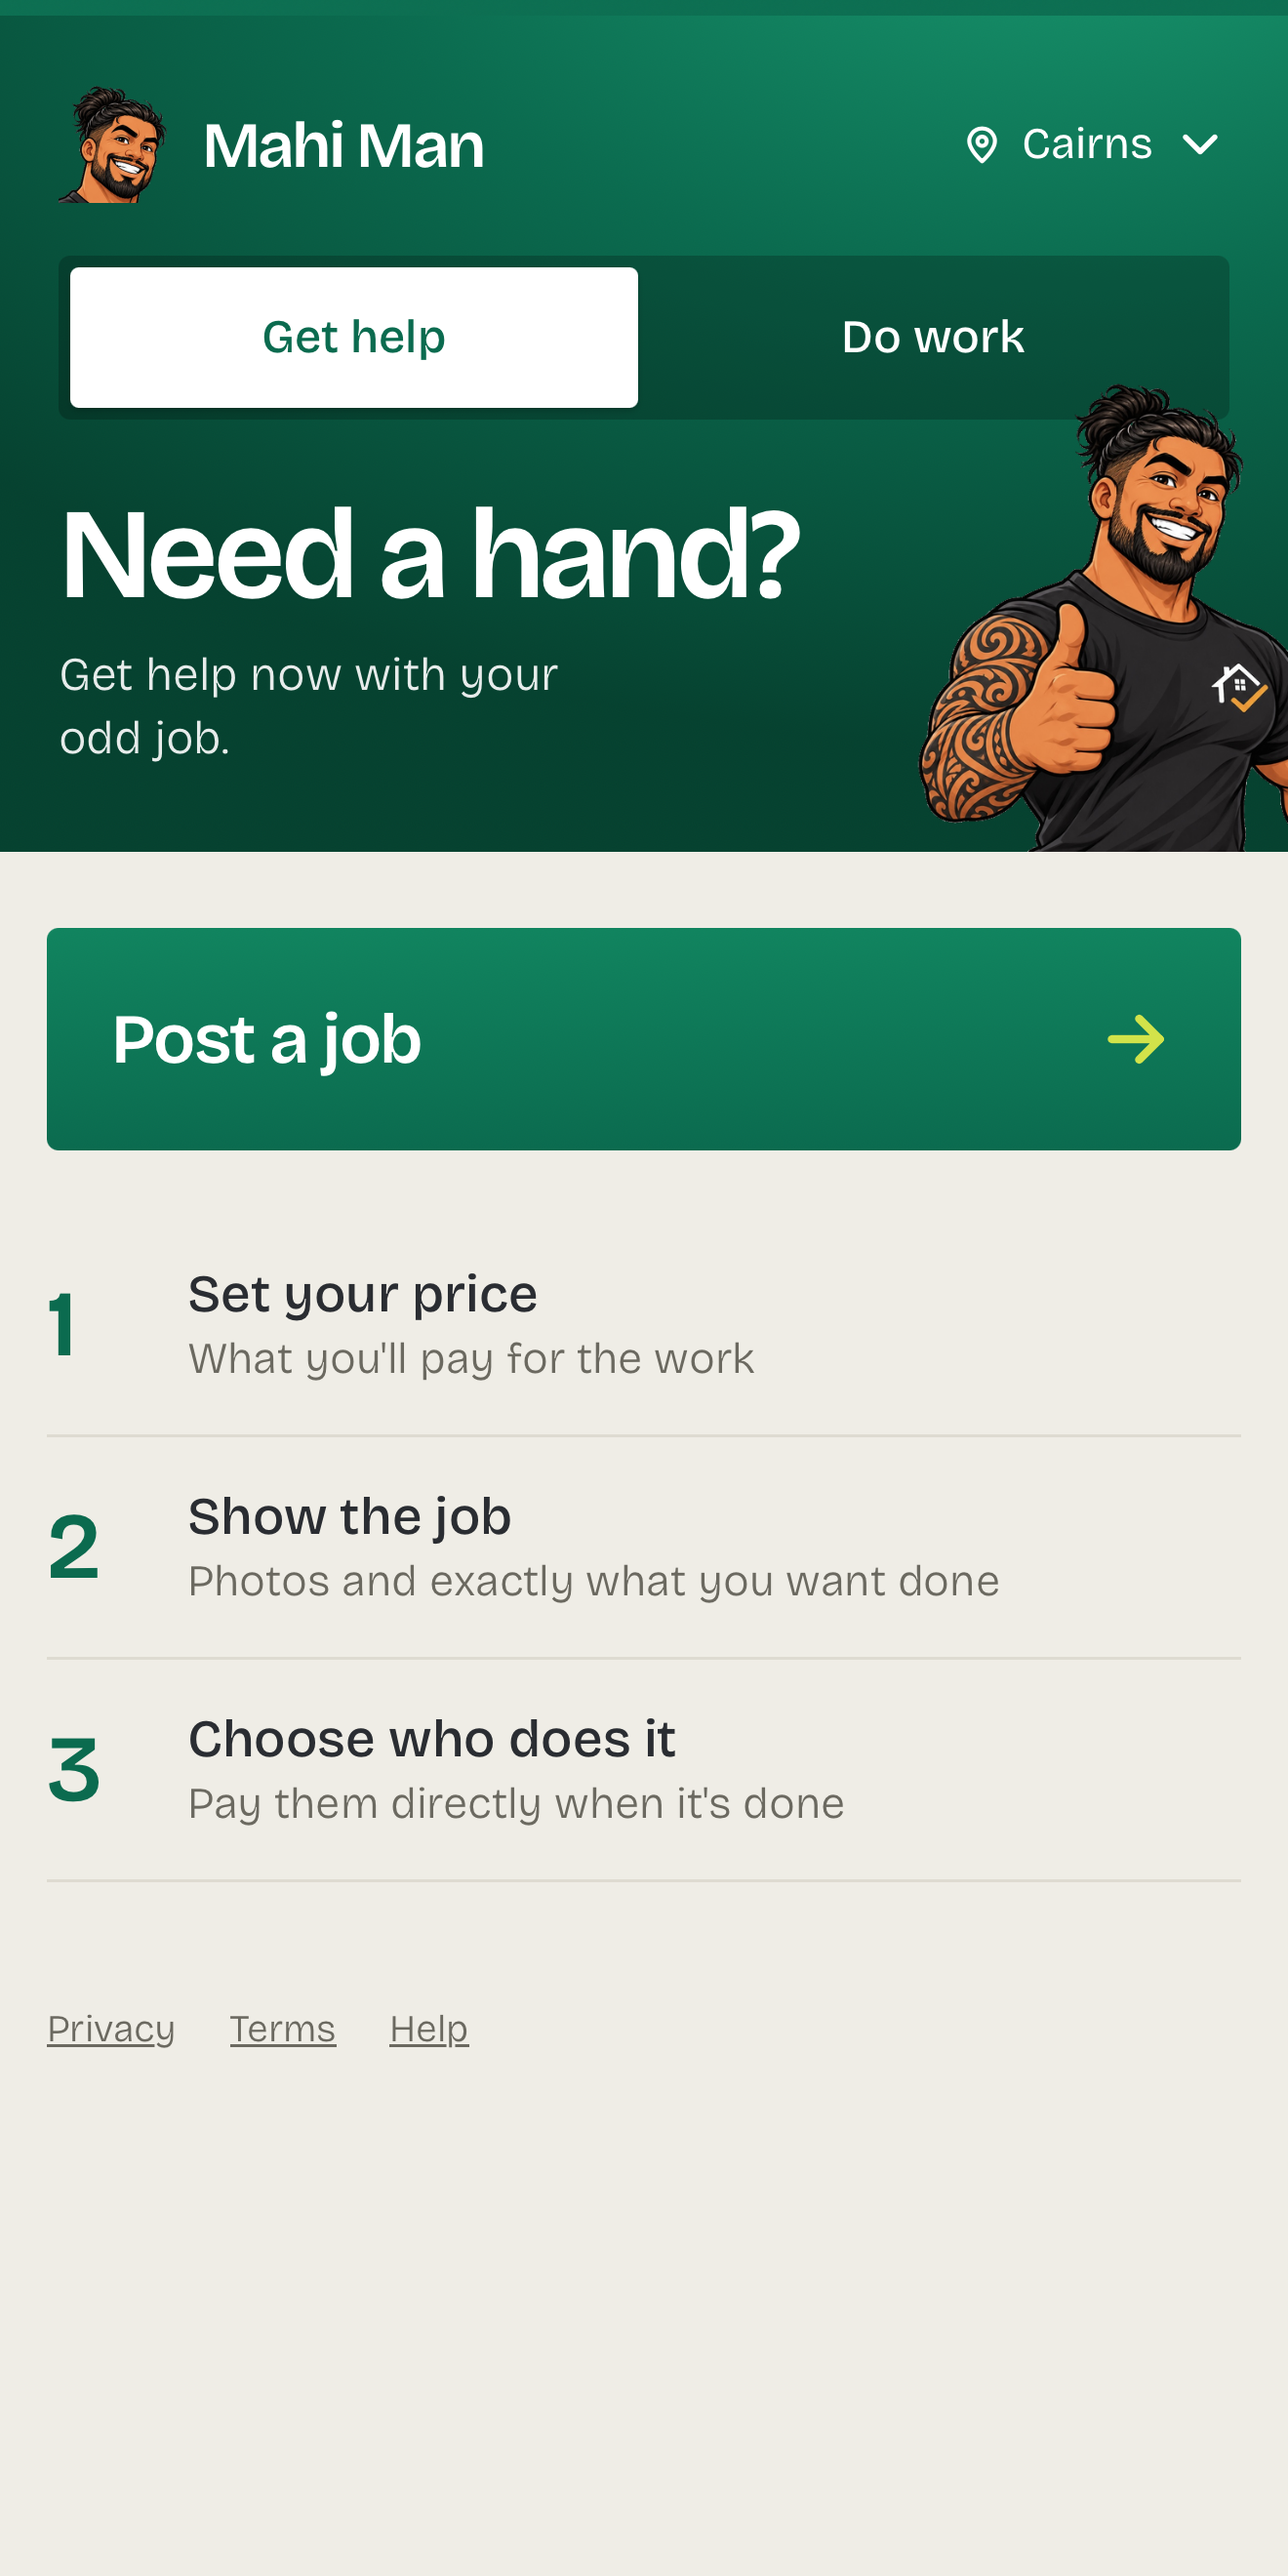
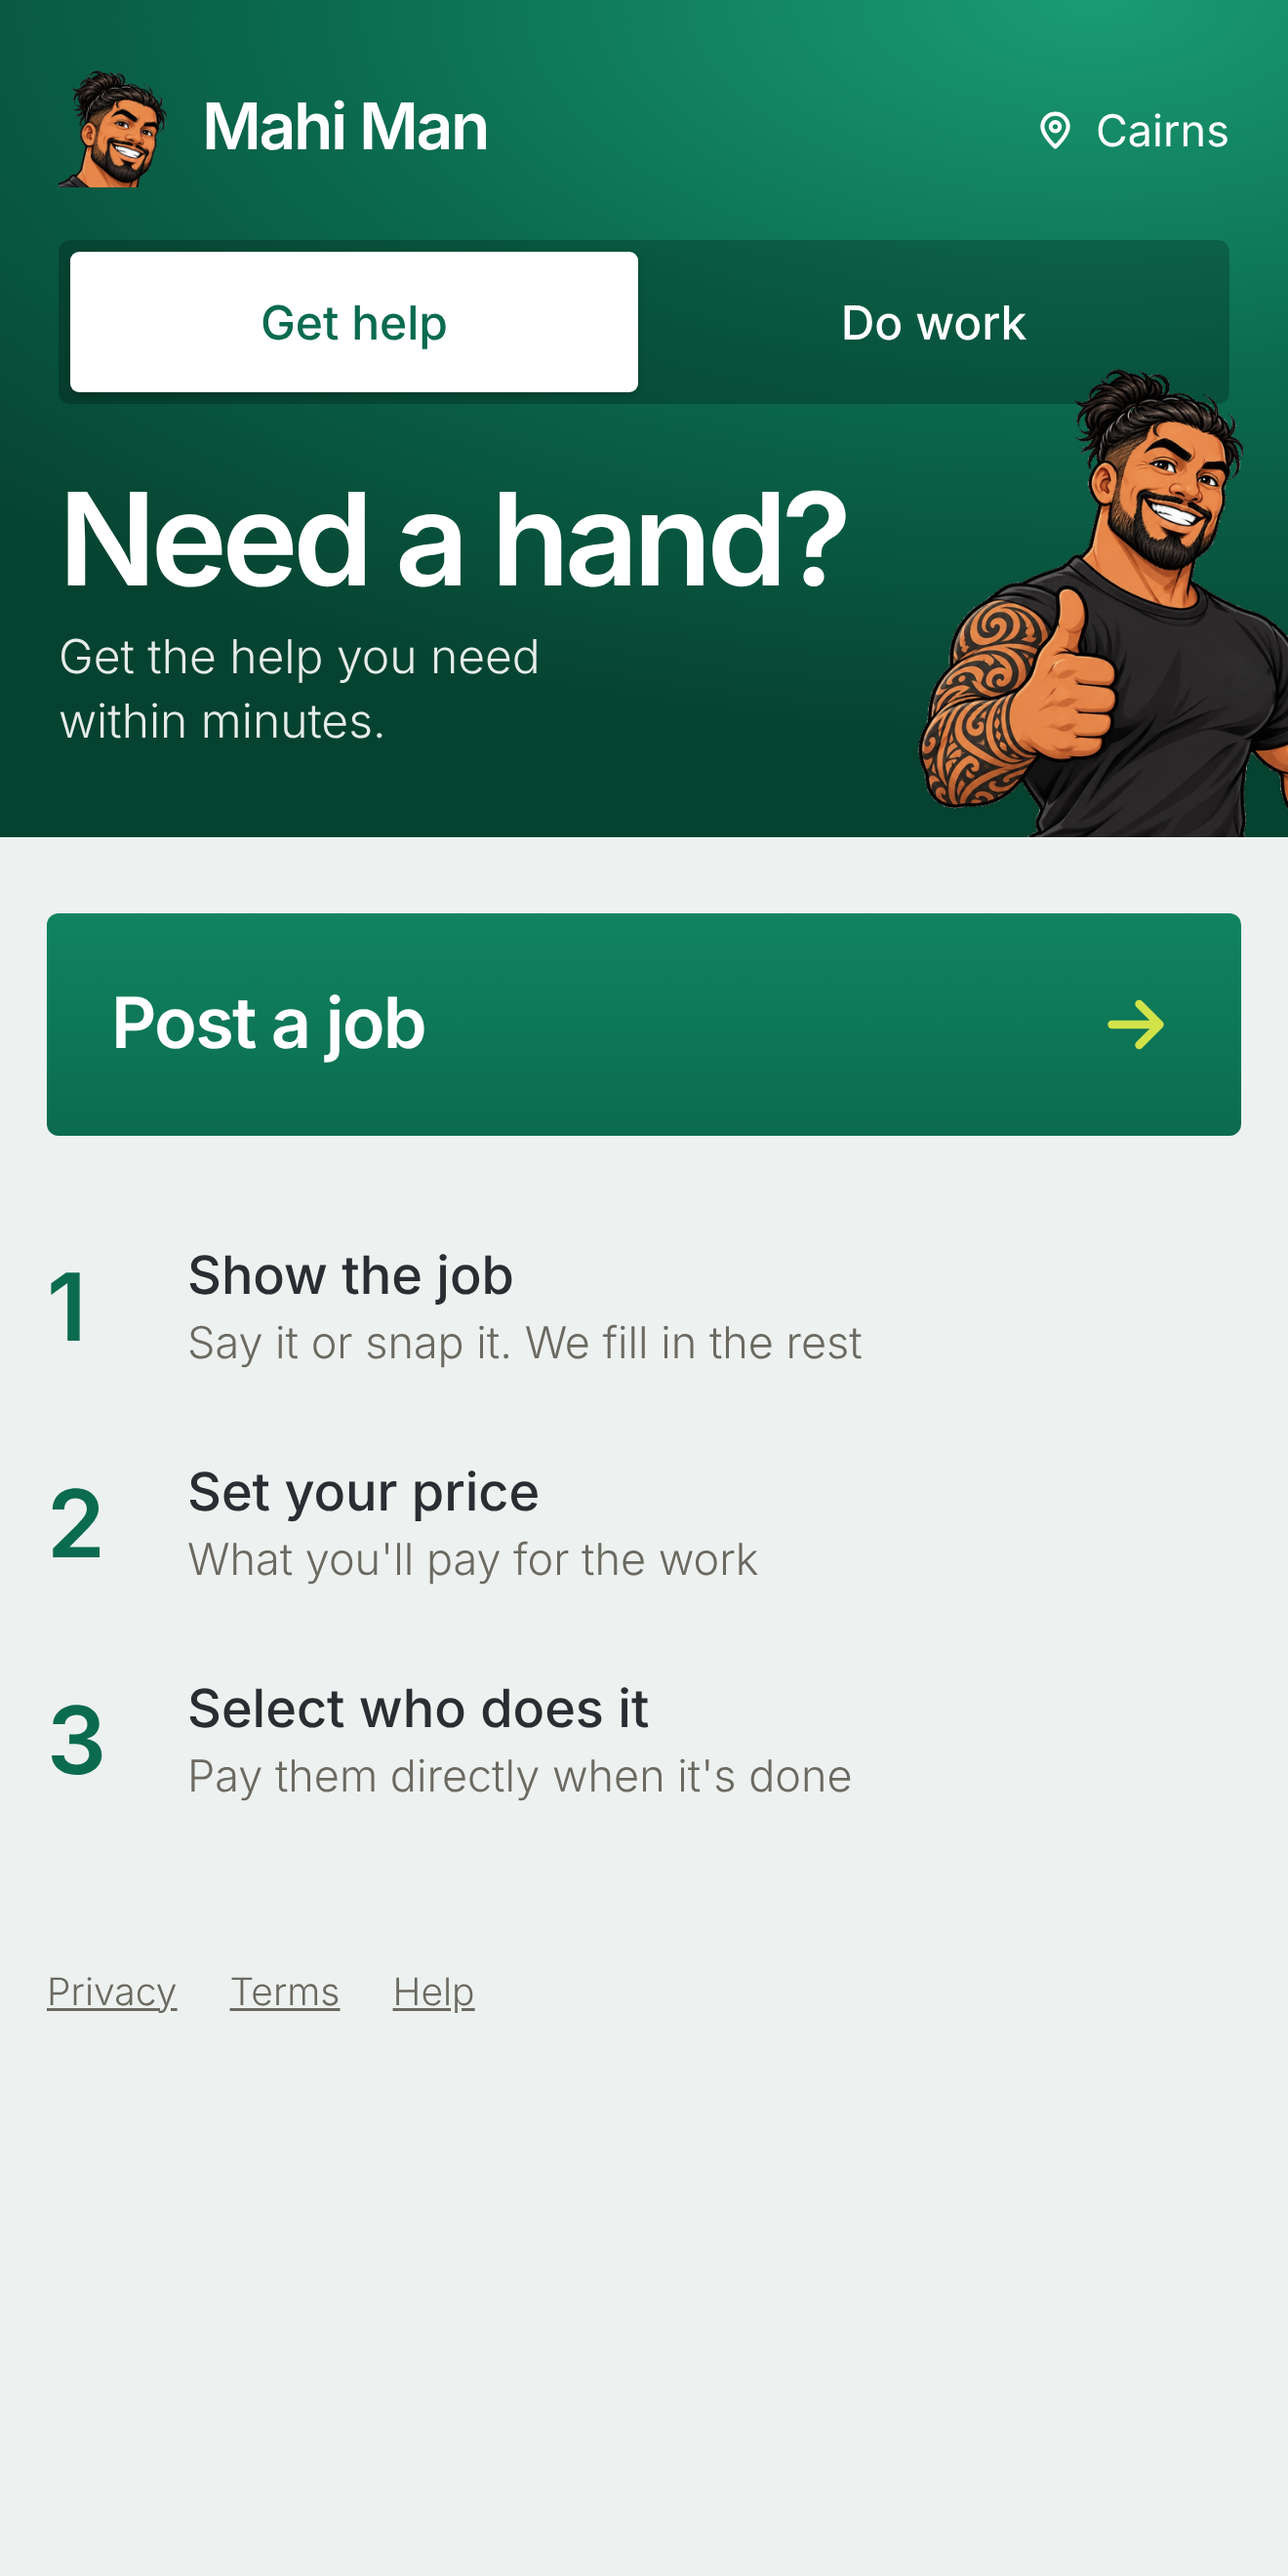
How it works images and Play Store screenshots made again from the current app: Check and post, Who's available with past work first, finished and paid, jobs near you, waiting to be selected; Cairns suburbs and real work photos. Workers on normal jobs are 'available', not making offers, on the waiti
Claude-Session: https://claude.ai/code/session_01XPpEY4PTT1egLJWieCABBj

diff --git a/src/worker/Work.tsx b/src/worker/Work.tsx
@@ -400,7 +400,7 @@ function OfferScreen({ o, pilot, onBack, onPass, onOffered, onGone }: { o: Offer
               <button className="link" onClick={() => setEta(true)}>Change</button>
             </div>
           )}
-          <p className="small light muted" style={{ margin: 0, lineHeight: 1.45 }}>{o.customer_name.split(" ")[0]} sees your profile, scores and this time, and chooses who they want. Your offer lasts 15 minutes. The street address shows once you're chosen.</p>
+          <p className="small light muted" style={{ margin: 0, lineHeight: 1.45 }}>{o.customer_name.split(" ")[0]} sees your profile, scores and this time, and chooses who they want. You stay available for 15 minutes. The street address shows once you're chosen.</p>
           <button className="link quiet" style={{ alignSelf: "flex-start" }} onClick={() => setReport(true)}>{Icon.flag()} Report this job</button>
         </div>
       </div>
@@ -430,14 +430,14 @@ function WaitingScreen({ o, onWithdraw, onClose }: { o: MyOffer; onWithdraw: () 
         </div>
         <span className="label" style={{ marginTop: 18 }}>Waiting for {o.customer_name} to choose</span>
         <span className="big lime" style={{ fontVariantNumeric: "tabular-nums" }}>{mm}:{String(ss).padStart(2, "0")}</span>
-        <span className="sub" style={{ marginTop: 6 }}>Your offer runs out when this hits zero.</span>
+        <span className="sub" style={{ marginTop: 6 }}>You're available until this hits zero.</span>
       </section>
       <div className="cp-sec">
         <span className="cp-title" style={{ marginBottom: 2 }}>What happens next</span>
         <span className="t15 light muted" style={{ lineHeight: 1.5 }}>If {o.customer_name} picks you, the job and your chat with them open straight away. If they pick someone else, or time runs out, you're free for the next one.</span>
       </div>
       <div className="cp-sec">
-        <span className="t17 w5">Your offer</span>
+        <span className="t17 w5">You said</span>
         <span className="t15 light muted">Can be there in {o.eta_minutes} minutes, {money(o.pay_cents)}</span>
       </div>
       <div style={{ flex: 1 }} />

diff --git a/src/ui/Landing.tsx b/src/ui/Landing.tsx
@@ -439,11 +439,11 @@ export function GetAppPage() {
 const HOW = {
   help: { tab: "Get help", line: "Post a job, select help, job done.", cta: ["Post a job, free", "/post"], steps: [
     ["Post a job", "Add a photo, say what needs doing and set your price.", "/how/post.jpg"],
-    ["Select help", "People who are available say so. See their photo, reviews and skills, and choose.", "/how/choose.jpg"],
+    ["Select help", "People who are free say they're available. See photos of their past work, reviews and ID check, then select.", "/how/choose.jpg"],
     ["Job done", "Check the after photos and pay when you're happy.", "/how/done.jpg"]] },
   work: { tab: "Do work", line: "See the work, accept the job, get paid.", cta: ["See jobs near you", "/find"], steps: [
     ["See the work", "Switch on when you're available and see the jobs near you.", "/how/find.jpg"],
-    ["Accept the job", "Say you're keen on the ones you want. The customer picks who goes.", "/how/keen.jpg"],
+    ["Accept the job", "Say you're available for the ones you want. The customer selects who goes.", "/how/keen.jpg"],
     ["Get paid", "Do the job, add the after photos, and get paid to your bank.", "/how/paid.jpg"]] },
 } as const;
 type Side = keyof typeof HOW;

diff --git a/src/worker/Skills.tsx b/src/worker/Skills.tsx
@@ -289,7 +289,7 @@ export function Credentials({ onBack }: { onBack: () => void }) {
         })}
         {!latest.length && <p className="t17 light" style={{ padding: "20px 16px 0", margin: 0, lineHeight: 1.4 }}>Insurance, RSA, Blue Card, trade licences. Each one unlocks the jobs that need it.</p>}
         <div style={{ padding: 16 }}><button className="btn primary" onClick={() => setAdd("new")}>{Icon.plus("#fff")} Add one</button></div>
-        {latest.length > 0 && <p className="t15 light muted" style={{ padding: "0 16px", margin: 0, lineHeight: 1.45 }}>Customers see each verified one on your offers. We remind you 30 days before one runs out.</p>}
+        {latest.length > 0 && <p className="t15 light muted" style={{ padding: "0 16px", margin: 0, lineHeight: 1.45 }}>Customers see each verified one when you say you're available. We remind you 30 days before one runs out.</p>}
       </div>
       {add != null && <AddCredential types={cat.creds} initial={add === "new" ? null : add} onBack={() => setAdd(null)} onSaved={() => { setAdd(null); load(); }} />}
     </Screen>

diff --git a/src/customer/Offers.tsx b/src/customer/Offers.tsx
@@ -262,7 +262,7 @@ export function OffersView({ jobId, title, price, priceCents = 0, asap, startAt,
       {unverified && !shown.length && (
         <div className="boost-row">
           <span className="stack" style={{ gap: 2, flex: 1 }}>
-            <b>Get offers faster</b>
+            <b>Get help faster</b>
             <span>Workers pick verified customers first. It takes about 2 minutes.</span>
           </span>
           <button className="btn primary small" onClick={() => setVerifying(true)}>Verify</button>
